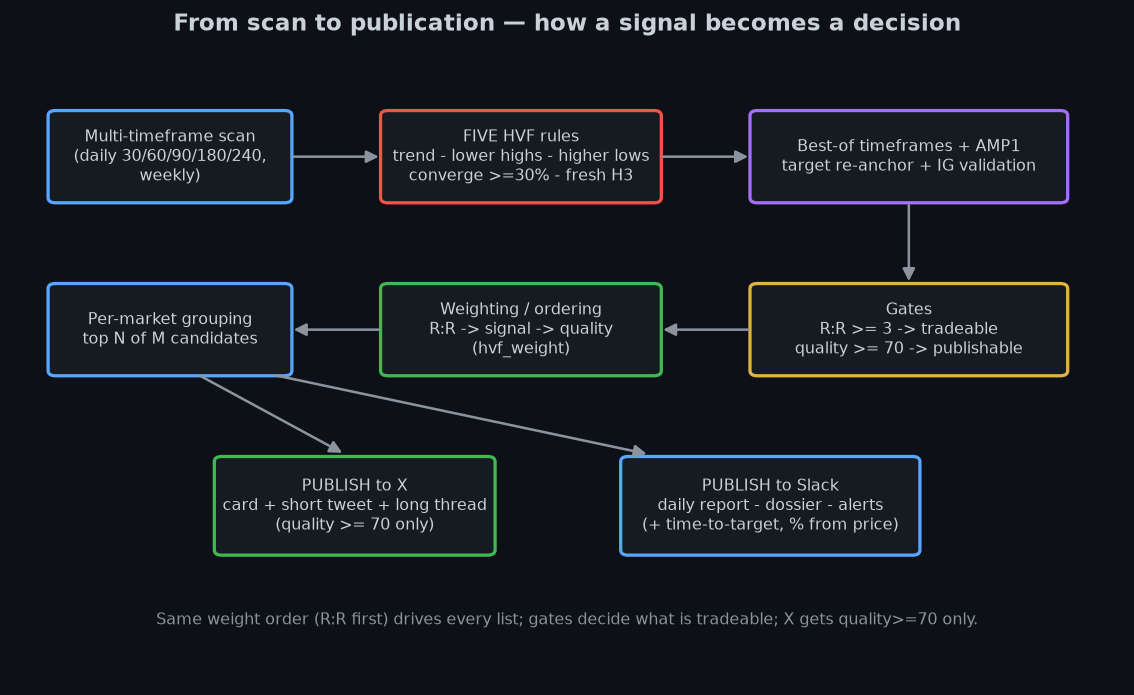
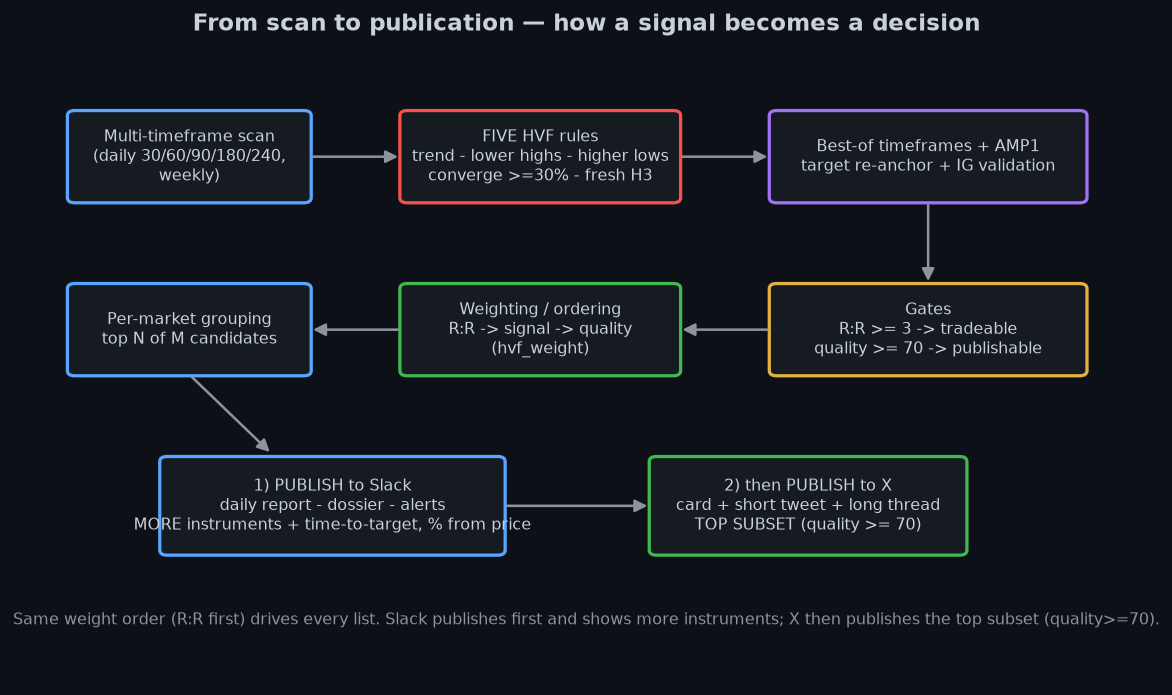
Follow-ups: source not in X, holder 5%+direction, near-S/R caution, P/E/insider in tweets, Slack-before-X
User 2026-06-19:
- G: source of info must NEVER appear in an X tweet. build_report gains cite_sources
  (default False = X-safe); only the dossier (Slack/internal) passes True.
- C: large-holder report threshold lowered 10% -> 5%; callout now shows the stake
  rising/falling/steady (institutional_holders pctChange).
- D: near support/resistance -> extra consideration (the OCDO lesson). New
  price_action.support_resistance + near_support_resistance; dossier narrative adds an
  "extra consideration" paragraph, weighted more when the level opposes the trade
  (short into support / long into resistance).
- E: P/E and insider ownership added as lowest-priority tweet confirmations (yfinance
  .info, cached) — shown only when the 280-char tweet has room; provider never named.
- A: decision-flow diagram now shows Slack BEFORE X (Slack publishes first / more
  instruments; X then publishes the top subset).

Verified: ast clean on all 5; regression 19/0; OXY Berkshire 26.6% "holding steady";
OCDO "price sitting on support ... works AGAINST this short ... wait for a break".

diff --git a/quality_report.py b/quality_report.py
@@ -30,6 +30,9 @@
 #
 # Version History:
 # ----------------------------------------------------------------------------------------------------------------------
+# 1.11.0  2026-06-19  Alex Hind   (user 2026-06-19) build_report cite_sources flag — source citation is Slack/dossier-only,
+#                                 NEVER in an X tweet (default False). Large-holder threshold lowered 10 -> 5%; the
+#                                 callout now shows the stake rising/falling/steady (institutional_holders pctChange).
 # 1.10.0  2026-06-19  Alex Hind   Authoritative data-source overrides (user 2026-06-19): reputable providers (Bloomberg,
 #                                 Investing.com, S&P Global, Morningstar, FactSet) override the automated Yahoo figures on
 #                                 conflict. fundamentals() applies data/fundamentals_overrides.json (per ticker/field +
@@ -133,9 +136,9 @@ def _yearly_growth(vals_new_first):
 # Sector-aware fundamentals (yfinance)
 # ----------------------------------------------------------------------------------------------------------------------
 
-# A single holder above this % is surfaced as a notable concentrated stake (user 2026-06-19);
-# >=20% is called out as "dominant / controlling-sized" (e.g. a Berkshire-style position).
-LARGE_HOLDER_PCT = 10.0
+# A single holder above this % is surfaced as a notable concentrated stake (user 2026-06-19:
+# lowered 10 -> 5); >=20% is still called out as "dominant / controlling-sized" (e.g. Berkshire).
+LARGE_HOLDER_PCT = 5.0
 
 # Authoritative external data sources (user 2026-06-19). The automated figures below come from
 # Yahoo Finance; these reputable providers are the references that OVERRIDE Yahoo on any conflict.
@@ -212,14 +215,16 @@ def fundamentals(ticker: str) -> dict:
     # owning >20%) is materially relevant and must be made clear. Surface the top
     # institutional holder + its %. yfinance column names vary across versions, so resolve
     # them defensively; fraction vs percent is normalised. Best-effort — never blocks.
-    f["top_holder"], f["top_holder_pct"] = None, None
+    f["top_holder"], f["top_holder_pct"], f["top_holder_change"] = None, None, None
     try:
         inst = t.institutional_holders
         if inst is not None and not inst.empty:
             cols = {str(c).lower(): c for c in inst.columns}
             hcol = next((cols[k] for k in cols if k in ("holder", "holders")), None)
-            pcol = next((cols[k] for k in cols
-                         if k in ("pctheld", "% out", "pct_held") or "pct" in k or "% out" in k), None)
+            # %held: prefer an exact pct-held column over the position-change column.
+            pcol = next((cols[k] for k in cols if k in ("pctheld", "% out", "pct_held")), None) \
+                or next((cols[k] for k in cols if "pct" in k and "change" not in k), None)
+            ccol = next((cols[k] for k in cols if "pctchange" in k or "pct_change" in k or k == "% change"), None)
             if hcol is not None and pcol is not None:
                 top = inst.iloc[0]
                 pct = float(top[pcol])
@@ -227,6 +232,13 @@ def fundamentals(ticker: str) -> dict:
                     pct *= 100
                 f["top_holder"] = str(top[hcol]).strip()
                 f["top_holder_pct"] = pct
+                # Direction of the stake (user 2026-06-19): pctChange is the position change
+                # this reporting period (fraction; +ve = adding, -ve = trimming).
+                if ccol is not None:
+                    try:
+                        f["top_holder_change"] = float(top[ccol]) * 100
+                    except Exception:
+                        pass
     except Exception:
         pass
 
@@ -428,9 +440,13 @@ def _chart_story(r: dict, name: str, gbp: bool) -> str:
     return " ".join(parts)
 
 
-def build_report(r: dict, change_note: str = None) -> tuple:
+def build_report(r: dict, change_note: str = None, cite_sources: bool = False) -> tuple:
     """(title, prose_body) — plain English, one fact per short sentence, phrasing varied
-    per instrument so each report reads bespoke (user 2026-06-14)."""
+    per instrument so each report reads bespoke (user 2026-06-14).
+
+    cite_sources: include the authoritative-source citation for overridden figures. Default
+    FALSE because this body is published to X, and the source of info must NOT appear in an X
+    tweet (user 2026-06-19). Slack/dossier callers pass True."""
     from intraday_signals import _resolve_name
     tk = r["ticker"]
     gbp = tk.endswith(".L")
@@ -487,11 +503,19 @@ def build_report(r: dict, change_note: str = None) -> tuple:
     thp = f.get("top_holder_pct")
     if f.get("top_holder") and isinstance(thp, (int, float)) and thp >= LARGE_HOLDER_PCT:
         emph = " — a dominant, controlling-sized stake" if thp >= 20 else " — a notably concentrated stake"
+        # Rising/falling (user 2026-06-19): direction of the holder's stake this period.
+        chg = f.get("top_holder_change")
+        if isinstance(chg, (int, float)) and abs(chg) >= 0.5:
+            direction = "rising" if chg > 0 else "falling"
+            emph += f", and {direction} ({chg:+.1f}% this period)"
+        elif isinstance(chg, (int, float)):
+            emph += ", and holding steady"
         s.append(f"One holder stands out: {f['top_holder']} owns about {thp:.1f}% of the company{emph}.")
 
     # Cite authoritative sources for any overridden figure (user 2026-06-19) — only when an
-    # override was actually applied, so the citation is always truthful.
-    if f.get("overrides"):
+    # override was actually applied (so the citation is always truthful) AND only on Slack/
+    # dossier surfaces: the source of info must NEVER appear in an X tweet (user 2026-06-19, G).
+    if cite_sources and f.get("overrides"):
         cites = ", ".join(f"{fld.replace('_', ' ')} per {src}" for fld, src in f["overrides"].items())
         s.append(f"(Authoritative figures used: {cites} — these override the automated feed.)")
 

diff --git a/instrument_dossier.py b/instrument_dossier.py
@@ -38,6 +38,9 @@
 #
 # Version History:
 # ----------------------------------------------------------------------------------------------------------------------
+# 1.12.0  2026-06-19  Alex Hind   (user 2026-06-19) narrative now adds an "extra consideration" paragraph when price is near
+#                                 support/resistance (price_action.near_support_resistance), weighted more when the level
+#                                 opposes the trade (the OCDO lesson); build_report called with cite_sources=True (Slack-only).
 # 1.11.0  2026-06-19  Alex Hind   Data-provenance note in the dossier (user 2026-06-19): names Yahoo as the automated source
 #                                 and the authoritative providers (quality_report.TRUSTED_DATA_SOURCES) that override on conflict.
 # 1.10.0  2026-06-19  Alex Hind   Narrative trade paragraph now states the expected time-to-target (user 2026-06-19) via
@@ -265,7 +268,7 @@ def _narrative_report(ticker: str, name: str, r: dict) -> str:
     # 2 — the why + quality angle (single source of this prose)
     try:
         from quality_report import build_report
-        _title, body = build_report(r)
+        _title, body = build_report(r, cite_sources=True)   # dossier is Slack/internal — citing OK (not X)
         if body:
             paras.append(body.strip())
     except Exception as e:
@@ -300,6 +303,31 @@ def _narrative_report(ticker: str, name: str, r: dict) -> str:
            else f", which is below the {HVF_MIN_RR:g}:1 floor, so it stays on the watch list rather than trading")
         + "." + _hz_txt
     )
+
+    # 4b — support/resistance proximity (user 2026-06-19, from the OCDO support criticism):
+    # whenever price is near a level it needs EXTRA consideration — a setup can bounce off
+    # support / reject at resistance right where it sits. Flag it, and weight it more when the
+    # level opposes the trade (a short into support, a long into resistance).
+    try:
+        from price_action import support_resistance, near_support_resistance
+        _sup, _res = support_resistance(ticker)
+        _lvl, _dist = near_support_resistance(cur, _sup, _res)
+    except Exception:
+        _lvl, _dist, _sup, _res = None, None, None, None
+    if _lvl:
+        _against = (_lvl == "support" and not up) or (_lvl == "resistance" and up)
+        lvl_px = _g(_sup if _lvl == "support" else _res)
+        if _against:
+            paras.append(
+                f"Extra consideration — price is sitting on {_lvl} near {lvl_px} (~{_dist:.1f}% away), and "
+                f"that level works AGAINST this {side}: a {side} can {'bounce off support' if not up else 'reject at resistance'} "
+                f"right here. Wait for a decisive break of {lvl_px} before trusting the {side}; a stall there is the warning."
+            )
+        else:
+            paras.append(
+                f"Extra consideration — price is near {_lvl} at {lvl_px} (~{_dist:.1f}% away), which sits in the "
+                f"trade's favour, but levels are where moves stall or accelerate, so size and timing around it deliberately."
+            )
 
     # 5 — the bottom line
     confirm = f"a clean break and close beyond {_g(entry)}"

diff --git a/docs/_gen_doc_visuals.py b/docs/_gen_doc_visuals.py
@@ -15,6 +15,8 @@
 #
 # Version History:
 # ----------------------------------------------------------------------------------------------------------------------
+# 1.1.0   2026-06-19  Alex Hind   Decision flow: Slack now precedes X (user 2026-06-19) — Slack publishes first / more
+#                                 instruments, X then publishes the top subset.
 # 1.0.0   2026-06-19  Alex Hind   Initial build — funnel schematic, decision flow, weighting illustration.
 # ======================================================================================================================
 
@@ -95,18 +97,19 @@ def decision_flow():
     _box(ax, 8.0, 4.8, 3.4, 1.4, "Gates\nR:R >= 3 -> tradeable\nquality >= 70 -> publishable", GOLD)
     _box(ax, 4.0, 4.8, 3.0, 1.4, "Weighting / ordering\nR:R -> signal -> quality\n(hvf_weight)", GREEN)
     _box(ax, 0.4, 4.8, 2.6, 1.4, "Per-market grouping\ntop N of M candidates", BLUE)
-    _box(ax, 2.2, 2.0, 3.0, 1.5, "PUBLISH to X\ncard + short tweet + long thread\n(quality >= 70 only)", GREEN)
-    _box(ax, 6.6, 2.0, 3.2, 1.5, "PUBLISH to Slack\ndaily report - dossier - alerts\n(+ time-to-target, % from price)", BLUE)
+    # Slack publishes FIRST and shows MORE instruments; X then publishes the top subset
+    # (user 2026-06-19). Flow: grouping -> Slack -> X.
+    _box(ax, 1.4, 2.0, 3.7, 1.5, "1) PUBLISH to Slack\ndaily report - dossier - alerts\nMORE instruments + time-to-target, % from price", BLUE)
+    _box(ax, 6.7, 2.0, 3.4, 1.5, "2) then PUBLISH to X\ncard + short tweet + long thread\nTOP SUBSET (quality >= 70)", GREEN)
     _arrow(ax, 3.0, 8.2, 4.0, 8.2)
     _arrow(ax, 7.0, 8.2, 8.0, 8.2)
     _arrow(ax, 9.7, 7.5, 9.7, 6.2)
     _arrow(ax, 8.0, 5.5, 7.0, 5.5)
     _arrow(ax, 4.0, 5.5, 3.0, 5.5)
-    # Per-market grouping feeds BOTH publication outputs (parallel, not sequential).
-    _arrow(ax, 2.0, 4.8, 3.6, 3.55)
-    _arrow(ax, 2.8, 4.8, 6.9, 3.55)
-    ax.text(6.0, 0.9, "Same weight order (R:R first) drives every list; gates decide what is tradeable; "
-                      "X gets quality>=70 only.", color=MUTED, ha="center", fontsize=9)
+    _arrow(ax, 1.7, 4.8, 2.6, 3.55)      # grouping -> Slack (first)
+    _arrow(ax, 5.1, 2.75, 6.7, 2.75)     # Slack -> X (X is the narrower, later step)
+    ax.text(6.0, 0.9, "Same weight order (R:R first) drives every list. Slack publishes first and shows more "
+                      "instruments; X then publishes the top subset (quality>=70).", color=MUTED, ha="center", fontsize=9)
     ax.set_title("From scan to publication — how a signal becomes a decision", color=FG, fontsize=13, weight="bold")
     ax.axis("off")
     _save(fig, "decision_flow.png")

diff --git a/price_action.py b/price_action.py
@@ -66,6 +66,9 @@
 #
 # Version History:
 # ----------------------------------------------------------------------------------------------------------------------
+# 1.24.0  2026-06-19  Alex Hind   support_resistance() + near_support_resistance() helpers (user 2026-06-19): standard
+#                                 swing-low/high S/R and a "price near a level" check, so a setup near support/resistance
+#                                 gets extra consideration (from the OCDO support criticism).
 # 1.23.0  2026-06-19  Alex Hind   target_horizon() helper (user 2026-06-19): rough expected time-to-target from the funnel
 #                                 formation span (H1->H3), timeframe fallback. Slack-only consumers; never on the X card.
 # 1.22.0  2026-06-19  Alex Hind   Fix stale R:R-gate comment (said "= 2.5"; live HVF_MIN_RR is 3.0). Comment no longer
@@ -1570,6 +1573,35 @@ def pct_from_current(level, current) -> str:
     if not isinstance(level, (int, float)) or not isinstance(current, (int, float)) or not current:
         return ""
     return f"{(level / current - 1) * 100:+.1f}%"
+
+
+def support_resistance(ticker: str, lookback: int = 20):
+    """Standard trader support/resistance — the recent swing low (support) and swing high
+    (resistance) over the last `lookback` daily bars. Returns (support, resistance) or
+    (None, None). CANONICAL helper so the X card and the analysis agree."""
+    try:
+        df = _get_daily(ticker, days=max(lookback + 5, 40))
+        if df is None or df.empty:
+            return None, None
+        rc = df.tail(lookback)
+        return float(rc["Low"].squeeze().min()), float(rc["High"].squeeze().max())
+    except Exception:
+        return None, None
+
+
+def near_support_resistance(price, support, resistance, tol_pct: float = 2.5):
+    """Whether `price` sits within `tol_pct`% of support or resistance (user 2026-06-19: price
+    near a level needs extra consideration — a setup can bounce/reject right there). Returns
+    ('support'|'resistance'|None, distance_pct) for the nearer level inside tolerance, else (None, None)."""
+    if not isinstance(price, (int, float)) or not price:
+        return None, None
+    best, best_d = None, None
+    for label, lvl in (("support", support), ("resistance", resistance)):
+        if isinstance(lvl, (int, float)) and lvl:
+            d = abs(price / lvl - 1) * 100
+            if d <= tol_pct and (best_d is None or d < best_d):
+                best, best_d = label, d
+    return best, best_d
 
 
 def _humanize_days(days: int) -> str:

diff --git a/intraday_signals.py b/intraday_signals.py
@@ -23,6 +23,9 @@
 #
 # Version History:
 # ----------------------------------------------------------------------------------------------------------------------
+# 1.26.0  2026-06-19  Alex Hind   (user 2026-06-19) P/E and insider-ownership added as lowest-priority tweet confirmations
+#                                 (from yfinance .info, cached) — appear only when the 280-char tweet has room; source
+#                                 provider never named in the tweet.
 # 1.25.0  2026-06-19  Alex Hind   Expected time-to-target in the X-draft Slack wrapper context line (user 2026-06-19) via
 #                                 price_action.target_horizon — Slack only; deliberately NOT in the tweet text or on the card.
 # 1.24.0  2026-06-19  Alex Hind   X card (user 2026-06-19): top levels line now shows Support/Resistance after R:R (recent
@@ -1723,6 +1726,21 @@ def _generate_x_drafts(tradeable: list, post: bool = True, collect: bool = False
         if sec_d and _aligned(sec_d):
             justifications.append((f"Sector ({sec_e}) moving the same way",
                                    "Sector aligned"))
+        # Valuation + ownership context (user 2026-06-19) — LOWEST priority, appended last so
+        # the fitting loop includes them only when the 280-char tweet has room (they never crowd
+        # out the higher-priority signals above). From yfinance .info (cached; the card already
+        # fetched it). NB the source provider is NEVER named in the tweet (user 2026-06-19).
+        try:
+            _info_x = _yf_info(ticker)
+            _pe = _info_x.get("forwardPE") or _info_x.get("trailingPE")
+            if isinstance(_pe, (int, float)) and 0 < _pe < 200:
+                justifications.append((f"P/E {_pe:.1f}", f"P/E {_pe:.1f}"))
+            _ins = _info_x.get("heldPercentInsiders")
+            if isinstance(_ins, (int, float)) and _ins > 0:
+                justifications.append((f"Insider ownership {_ins * 100:.0f}%",
+                                       f"Insiders {_ins * 100:.0f}%"))
+        except Exception:
+            pass
 
         def _just_line(use_full: bool, n: int) -> str:
             idx = 0 if use_full else 1
